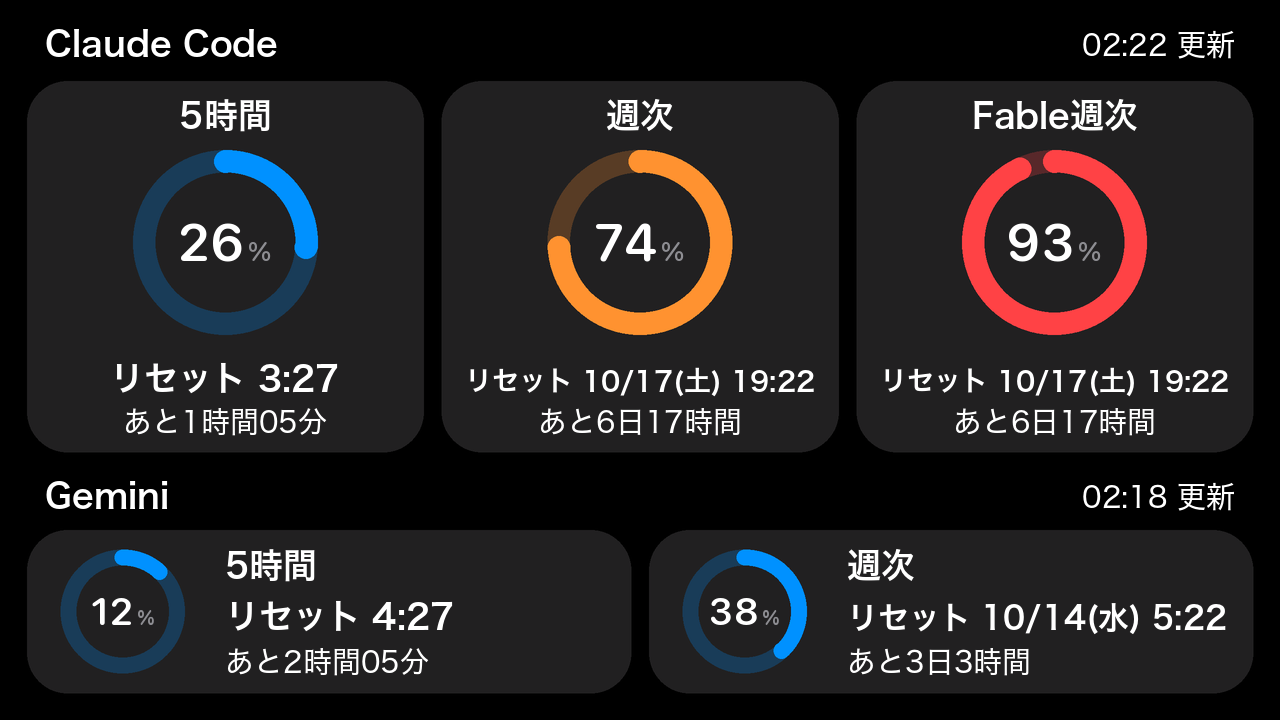
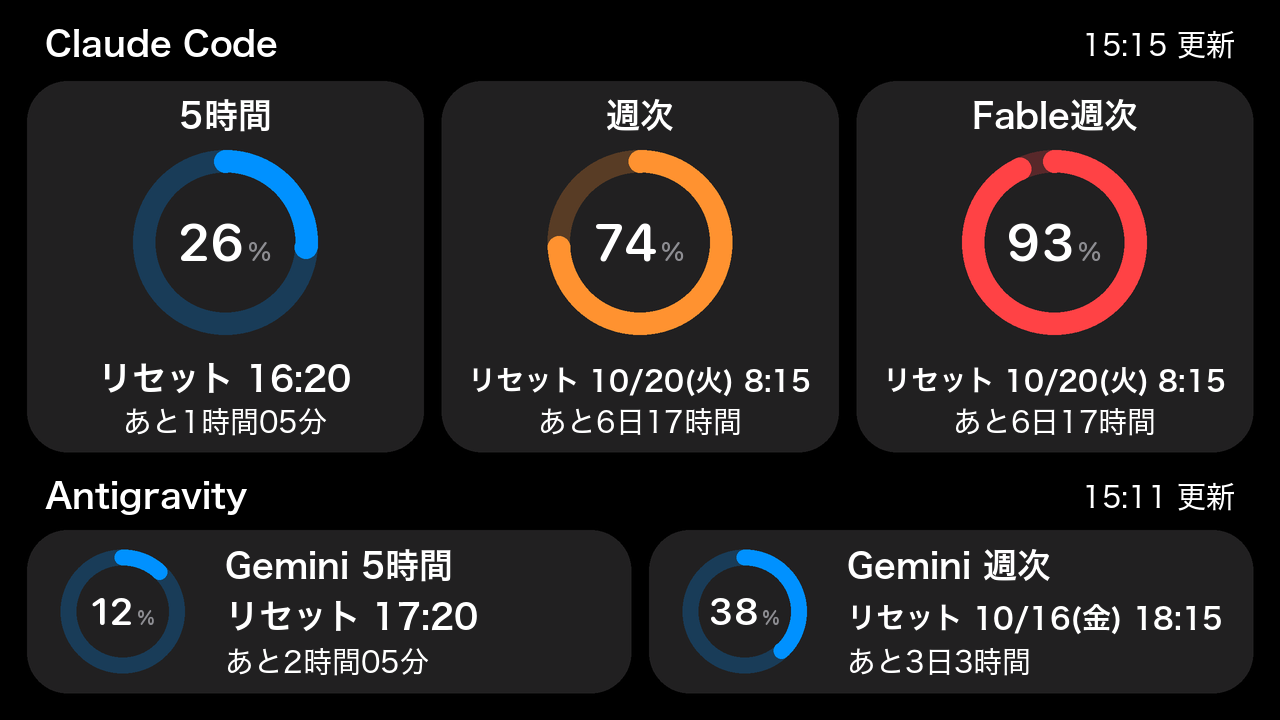
fix: 5.2 インチの下の段の見出しを「Antigravity」、カードを「Gemini 5時間」「Gemini 週次」にする
値は Antigravity の Gemini のモデルの枠で、Gemini アプリや Gemini CLI の枠ではない。
「Gemini」だけの見出しでは区別が付かないため（ユーザーが選んだ）。

diff --git a/tests/test_antigravity.py b/tests/test_antigravity.py
@@ -31,7 +31,7 @@ def usage_line(groups=None, **top):
 class ParseTest(unittest.TestCase):
     def test_reads_the_gemini_group_in_five_hour_then_weekly_order(self):
         snapshot = ag.parse_usage(usage_line() + "\n", "", NOW)
-        self.assertEqual([m.label for m in snapshot.meters], ["5時間", "週次"])
+        self.assertEqual([m.label for m in snapshot.meters], ["Gemini 5時間", "Gemini 週次"])
         self.assertEqual([round(m.percent) for m in snapshot.meters], [2, 6])
         self.assertEqual(snapshot.meters[0].resets_at, datetime(2026, 10, 10, 18, 37, tzinfo=timezone.utc))
         self.assertEqual(snapshot.fetched_at, NOW)
@@ -62,7 +62,7 @@ class ParseTest(unittest.TestCase):
             {"window": "5h", "remaining_fraction": 0.5, "reset_time": "2026-10-10T18:37:00Z", "disabled": True},
             {"window": "weekly", "remaining_fraction": 0.25, "reset_time": "2026-10-14T07:31:00Z"}]}]
         meters = ag.parse_usage(usage_line(groups=groups), "", NOW).meters
-        self.assertEqual([(m.label, m.percent) for m in meters], [("5時間", None), ("週次", 75.0)])
+        self.assertEqual([(m.label, m.percent) for m in meters], [("Gemini 5時間", None), ("Gemini 週次", 75.0)])
 
     def test_version(self):
         self.assertEqual(ag.parse_version("1.3.1\n"), (1, 3, 1))

diff --git a/claude_usage_display/antigravity.py b/claude_usage_display/antigravity.py
@@ -36,7 +36,8 @@ TIMEOUT_SECONDS = 60
 SEARCH_PATHS = ("/opt/homebrew/bin/agy", "/usr/local/bin/agy")
 WORKDIR = Path.home() / "Library" / "Application Support" / "claude-usage-display" / "agy"
 GROUP = "gemini"  # グループ名にこの語を含むもの（「Gemini Models」）
-WINDOWS = (("5h", "5時間"), ("weekly", "週次"))
+# 画面の名前。出どころは見出しの「Antigravity」で、カードにはモデルのグループ（Gemini）を書く（2026-10-13 ユーザーが決定）
+WINDOWS = (("5h", "Gemini 5時間"), ("weekly", "Gemini 週次"))
 LABELS = tuple(label for _window, label in WINDOWS)
 ERROR_MARK = "AGY_ERROR:"
 SIGNED_OUT = ("not logged into antigravity", "not logged in", "not signed in", "not authenticated",

diff --git a/tests/test_runner.py b/tests/test_runner.py
@@ -169,7 +169,7 @@ class RunnerTest(unittest.TestCase):
                 mock.patch.object(cli.gauge, "render_with_gemini", draw):
             runner.loop()
         self.assertEqual(draw.call_args.kwargs["size"], (480, 320))
-        self.assertEqual(draw.call_args.args[6], ("5時間", "週次"))
+        self.assertEqual(draw.call_args.args[6], ("Gemini 5時間", "Gemini 週次"))
 
     def test_unplugging_is_logged_in_one_line_and_waits_again(self):
         import usb.core

diff --git a/claude_usage_display/__main__.py b/claude_usage_display/__main__.py
@@ -106,8 +106,8 @@ def _demo_snapshot(now: datetime, model: str) -> Snapshot:
 
 def _demo_gemini(now: datetime) -> Snapshot:
     return Snapshot((
-        Meter("5時間", 12, now + timedelta(hours=2, minutes=5)),
-        Meter("週次", 38, now + timedelta(days=3, hours=3)),
+        Meter("Gemini 5時間", 12, now + timedelta(hours=2, minutes=5)),
+        Meter("Gemini 週次", 38, now + timedelta(days=3, hours=3)),
     ), now - timedelta(minutes=4))
 
 

diff --git a/tests/test_gauge.py b/tests/test_gauge.py
@@ -148,7 +148,7 @@ class LargeGaugeTest(unittest.TestCase):
 
 def gemini(*percents):
     resets = (NOW + timedelta(hours=2), NOW + timedelta(days=3))
-    return Snapshot(tuple(Meter(label, p, r) for label, p, r in zip(("5時間", "週次"), percents, resets)), NOW)
+    return Snapshot(tuple(Meter(label, p, r) for label, p, r in zip(("Gemini 5時間", "Gemini 週次"), percents, resets)), NOW)
 
 
 def near(pixel, color, tolerance=12):

diff --git a/docs/handover.md b/docs/handover.md
@@ -245,6 +245,7 @@ scripts/uninstall-launch-agent.sh                                 # 自動起動
   - Antigravity: `agy -p /usage --output-format json --print-timeout 20s` を実行して結果の JSON を読む。`agy` 1.1.11 以上が条件で、それより古い版は `/usage` をプロンプトとして扱い枠を使ってしまう（Orca は応答の `num_turns` が 1 以上か `conversation_id` があると取得をやめる）
 - `agy` 1.3.1 で `/usage` を実行した結果（2026-10-11）: `status` は `SUCCESS`、`num_turns` は 0（枠を使っていない）。`command.data.groups` に「Gemini Models」と「Claude and GPT models」の 2 グループがあり、それぞれに `window` が `5h` と `weekly` の枠（`remaining_fraction`・`reset_time`）がある。`description` の文言は「Within each group, models share a weekly limit and a 5-hour limit. … your weekly limit is tied directly to your individual tier.」
 - **5.2 インチに Gemini の枠を足した**（2026-10-11、ユーザーの指示。`antigravity.py`・`gauge.render_with_gemini`、`run`・`preview` の `--gemini`）。画面はユーザーが見本の 2 案から「案 B」（上の段に Claude Code の 3 枚、下の段に Gemini の 2 枚を横長のカードで）を選んだ。見本は `docs/images/gauge-gemini-1280x720.png`
+  - **下の段の名前**（2026-10-13、ユーザーが選んだ）: 見出しを「Gemini」から出どころの「Antigravity」に変え、カードを「Gemini 5時間」「Gemini 週次」にした。値は Antigravity の Gemini のモデルのグループの枠で、Gemini アプリや Gemini CLI の枠ではない（Gemini CLI の上限は公式の `quota-and-pricing.md` に 1 日の回数で書かれている）。「Gemini」だけでは、その区別が付かないため
   - 内部 API を自分で呼ばず、`agy` の `/usage` を読む。版が 1.1.11 より古ければ呼ばない。応答に `num_turns` が 1 以上か `conversation_id` があれば、起動し直すまで取得をやめる（Orca と同じ止め方）
   - 1 回の実行で `agy` は言語サーバーを起動し、内部 API（`loadCodeAssist`・`fetchAvailableModels`・`retrieveUserQuotaSummary` など）を呼ぶ。約 6 秒かかる（2 回測って 6 秒前後）。キーチェーンの自分のトークンで認証する（このプログラムはトークンを読まない）
   - `--log-file` を付けないと、1 回 21 KB のログが `~/.gemini/antigravity-cli/log/` に増え、`cli.log` の向きがその新しいファイルに変わる（2026-10-11 01:54 の 1 回目で起きた。Orca で動いている agy のログは別のファイルに書き続けていた）。付けると、どちらも起きない。ただし `implicit/` に 450 バイトほどのファイルが毎回 1 つ増える（01:54 と 02:16 の 2 回で 1 つずつ）

diff --git a/docs/article-material.md b/docs/article-material.md
@@ -324,7 +324,7 @@ MIT。著作権者は株式会社studio C です。本文は、GitHub の Licens
 5.2 インチが届き、Mac で動いてから書く記事（`docs/handover.md` §5-9）に入れる。
 
 1. **3.5 インチのモニターは、分解して外装を黒く塗装したうえで、サーバー監視に使うことにした**（2026-10-11）。3.5 インチは間違えて白を注文したもの（§12 の 3）。**サーバー監視の話は別の記事にする**（2026-10-11 ユーザーが決定。§14）ので、この記事では 1 段落にとどめ、サーバー監視の記事が公開済みならリンクする（内部リンクは公開済みの記事にだけ張る。studioc `docs/tech_blog_writing_guide.md` §4.5）
-2. **Gemini（Antigravity）の枠も載せた**（2026-10-11）。画面は見本の 2 案から、上の段に Claude Code、下の段に Gemini を置く案を選んだ。値は Antigravity の CLI の `/usage` で読む（Google の内部 API を自分では呼ばない）。古い版の `agy` は `/usage` をプロンプトとして扱い枠を使ってしまう点と、その止め方。1 回に約 6 秒かかり、実行のたびに Antigravity のフォルダに小さなファイルが増えるので 15 分ごとにした点（`docs/handover.md` §4-10）
+2. **Antigravity の Gemini の枠も載せた**（2026-10-11）。画面は見本の 2 案から、上の段に Claude Code、下の段に Gemini を置く案を選んだ。下の段の見出しは出どころの「Antigravity」、カードは「Gemini 5時間」「Gemini 週次」（Gemini アプリや Gemini CLI の枠と取り違えないため。2026-10-13 に「Gemini」から変えた）。値は Antigravity の CLI の `/usage` で読む（Google の内部 API を自分では呼ばない）。古い版の `agy` は `/usage` をプロンプトとして扱い枠を使ってしまう点と、その止め方。1 回に約 6 秒かかり、実行のたびに Antigravity のフォルダに小さなファイルが増えるので 15 分ごとにした点（`docs/handover.md` §4-10）
 3. **見出しのアイコンは作ったが使わないことにした**（2026-10-11）。Claude と Gemini のアイコンを見出しに出せるようにし（ロゴは商標の指針のため git に入れず手元のフォルダから読む）、アイコン付きの画面を見たうえで「情報量が多くて見づらくなる」としてやめた。**記事の写真やスクリーンショットにロゴを写さない**（Anthropic と Google の商標の指針はロゴの使用に承認を求め、個人で使う場合の例外も書いていない）。いまの常駐はアイコン無しなので、そのまま撮ればよい
 
 ## 14. サーバー監視の記事の素材（5.2 インチの記事とは別にする。2026-10-11 ユーザーが決定）

diff --git a/README.md b/README.md
@@ -10,7 +10,7 @@ Claude Code の利用枠 3 つ（**5 時間・週次・Fable 週次**）を、Ma
 - 取得に失敗したときは、前回の値を残したまま、上端の見出しの位置に理由をオレンジで、右にその値を取得した時刻（「16:50 時点」）を出します
 - まだ値が無いときは、ゲージを灰色にして「--」を出します
 
-5.2 インチでは、Google の Antigravity の Gemini の枠（5 時間・週）も下の段に出せます（「Gemini（Antigravity）の枠も出す」を参照）。
+5.2 インチでは、Google の Antigravity の Gemini の枠（5 時間・週）も下の段に出せます（「Antigravity の Gemini の枠も出す」を参照）。
 
 最初に作った横棒の画面も `--theme classic` で使えます。
 
@@ -169,11 +169,13 @@ launchctl print gui/$(id -u)/jp.co.studioc.claude-usage-display | grep -E "^$(pr
 tail -f ~/Library/Logs/claude-usage-display.log
 ```
 
-## Gemini（Antigravity）の枠も出す
+## Antigravity の Gemini の枠も出す
 
 `--gemini` を付けると、上の段に Claude Code の 3 枚、下の段に Antigravity の Gemini の枠（5 時間・週）の 2 枚を出します。
 
-![Gemini の枠を足した 5.2 インチの画面（見本の値）](docs/images/gauge-gemini-1280x720.png)
+下の段の見出しは、値の出どころの「Antigravity」です。カードの名前は「Gemini 5時間」「Gemini 週次」です。Antigravity の Gemini のモデルの枠で、Gemini アプリや Gemini CLI の枠ではありません（Gemini CLI の上限は、[Quota and pricing](https://github.com/google-gemini/gemini-cli/blob/main/docs/resources/quota-and-pricing.md) に 1 日の回数で書かれています）。
+
+![Antigravity の Gemini の枠を足した 5.2 インチの画面（見本の値）](docs/images/gauge-gemini-1280x720.png)
 
 ```
 .venv/bin/python -m claude_usage_display preview --demo --gemini --size 1280x720 -o demo.png  # 見本の値で描く
